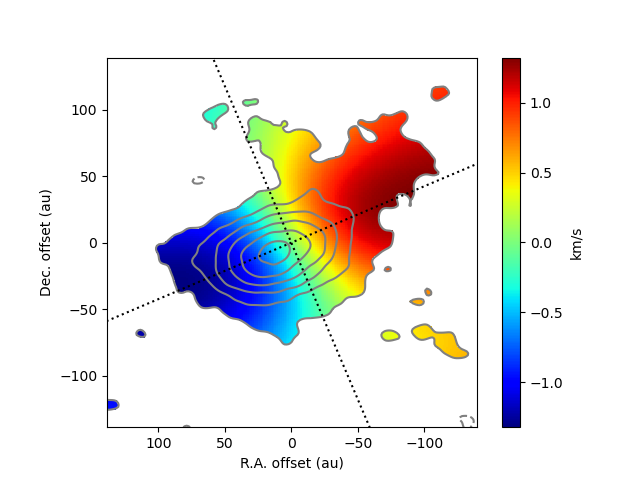
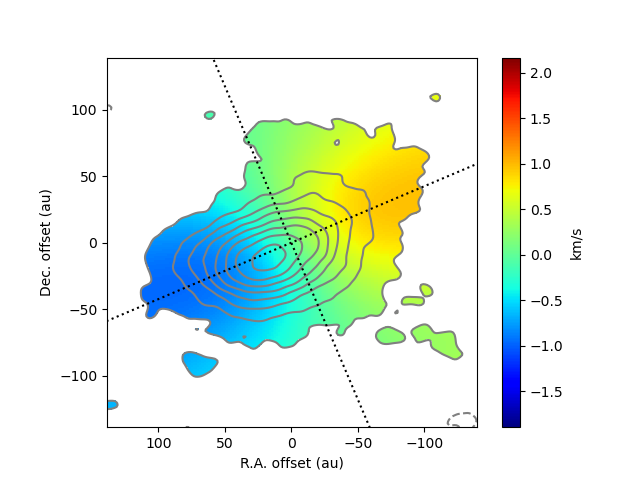
trials

diff --git a/pvsilhouette/pvsilhouette.py b/pvsilhouette/pvsilhouette.py
@@ -46,7 +46,7 @@ from scipy.optimize import curve_fit
 import warnings
 
 from utils import emcee_corner
-from UlrichEnvelope import velmax
+from UlrichEnvelope import velmax, thinpv
 
 warnings.simplefilter('ignore', RuntimeWarning)
 
@@ -262,7 +262,7 @@ class PVSilhouette():
                                   nwalkers_per_ndim=16,
                                   nburnin=200, nsteps=200,
                                   labels=['log Mstar', 'log Rc'],
-                                  rangelevel=0.9,
+                                  rangelevel=0.93,
                                   figname=figname+'.corner.png',
                                   show_corner=True)
         popt = 10**popt
@@ -291,6 +291,67 @@ class PVSilhouette():
             fig.savefig(figname + '.model.png')
             plt.show()
 
+    def fitting2(self, incl: float, Mstar_range: list = [0, 10],
+                 Rc_range: list = [0, 1000], cutoff: float = 5,
+                 vmask: list = [0, 0],
+                 show: bool = False, figname: str = 'PVsilhouette'):
+        
+        majormap = self.dpvmajor
+        minormap = self.dpvminor
+        #majormap = np.where(self.dpvmajor > cutoff * self.sigma, 1, 0)
+        #minormap = np.where(self.dpvminor > cutoff * self.sigma, 1, 0)
+        allpix = len(np.ravel(majormap)) + len(np.ravel(minormap))
+        def lnprob(p):
+            q = 10**p
+            a = thinpv(self.r, self.v, Mstar=q[0], Rc=q[1], incl=incl,
+                       beam=self.bmaj)
+            majormodel, minormodel = a['major'], a['minor']
+            majormodel *= np.median(majormap)
+            minormodel *= np.median(minormap)
+            #majormodel = np.where(majormodel > cutoff * self.sigma, 1, 0)
+            #minormodel = np.where(minormodel > cutoff * self.sigma, 1, 0)
+            chi2 = np.sum((majormap - majormodel)**2) + np.sum((minormap - minormodel)**2)
+            chi2 /= self.sigma**2
+            chi2r = chi2 / allpix
+            print([f'{q[0]:05.3f}', f'{q[1]:07.3f}'], f'{chi2r:05.3f}')
+            return -0.5 * chi2
+        plim = np.log10([Mstar_range, Rc_range]).T
+        popt, perr = emcee_corner(plim, lnprob, args=[],
+                                  nwalkers_per_ndim=8,
+                                  nburnin=100, nsteps=100,
+                                  labels=['log Mstar', 'log Rc'],
+                                  rangelevel=0.93,
+                                  figname=figname+'.corner.png',
+                                  show_corner=True)
+        popt = 10**popt
+        perr = popt * np.log(10) * perr
+        self.popt = popt
+        self.perr = perr
+        print(popt)
+        if show:
+            a = thinpv(self.r, self.v, Mstar=popt[0], Rc=popt[1], incl=incl,
+                       beam=self.bmaj)
+            majormodel, minormodel = a['major'], a['minor']
+            majormodel *= np.mean(majormap)
+            minormodel *= np.mean(minormap)
+            fig = plt.figure()
+            ax = fig.add_subplot(1, 2, 1)
+            ax.contour(self.r, self.v, self.dpvmajor,
+                       levels=np.arange(1, 10) * 6 * sigma, colors='k')
+            ax.contour(self.r, self.v, majormodel,
+                       levels=np.arange(1, 10) * 6 * sigma, colors='r')
+            ax.set_xlabel('offset (au)')
+            ax.set_ylabel('velocity (km/s)')
+            ax.set_ylim(self.v.min(), self.v.max())
+            ax = fig.add_subplot(1, 2, 2)
+            ax.contour(self.r, self.v, self.dpvminor,
+                       levels=np.arange(1, 10) * 6 * sigma, colors='k')
+            ax.contour(self.r, self.v, minormodel,
+                       levels=np.arange(1, 10) * 6 * sigma, colors='r')
+            ax.set_xlabel('offset (au)')
+            ax.set_ylim(self.v.min(), self.v.max())
+            fig.savefig(figname + '.model.png')
+            plt.show()
 
 #####################################################################
 if __name__ == '__main__':
@@ -302,6 +363,6 @@ if __name__ == '__main__':
     pvsil.put_PV(pvmajorfits=pvmajorfits, pvminorfits=pvminorfits,
                  dist=dist, vsys=vsys, rmax=rmax, vmin=vlim[0], vmax=vlim[1],
                  sigma=sigma)
-    pvsil.fitting(incl=incl, Mstar_range=[0.01, 10.0], Rc_range=[5, 500],
+    pvsil.fitting2(incl=incl, Mstar_range=[0.01, 1], Rc_range=[5, 50],
                   cutoff=5, show=True, figname=filehead, vmask=vmask)
     

diff --git a/pvsilhouette/UlrichEnvelope.py b/pvsilhouette/UlrichEnvelope.py
@@ -1,6 +1,8 @@
 import numpy as np
 import matplotlib.pyplot as plt
 from astropy import constants, units
+from scipy.signal import convolve
+
 
 au = units.au.to('m')
 GG = constants.G.si.value
@@ -97,22 +99,69 @@ def losvel(elos, r, t, p, kepler=False):
 def velmax(r: np.ndarray, Mstar: float, Rc: float, incl: float):
     irad = np.radians(incl)
     vunit = np.sqrt(GG * Mstar * M_sun / Rc / au) * 1e-3
-    X = r / Rc
-    Z = r / Rc
-    X, Z = np.meshgrid(X, Z)  # X is inner, second axis
-    Y = np.zeros_like(X)
-    R = np.hypot(X, Z)
-    X[R < 1] = np.nan
-    Y[R < 1] = np.nan
-    Z[R < 1] = np.nan
+    X, Z = np.meshgrid(r / Rc, r / Rc)  # X is inner, second axis
+    zero = np.zeros_like(X)
     elos = [0, -np.sin(irad), np.cos(irad)]
     a = {}
-    vlos = losvel(elos, *xyz2rtp(*XYZ2xyz(irad, 0, X, Y, Z))) * vunit
+    x, y, z = XYZ2xyz(irad, 0, X, zero, Z)
+    r, t, p = xyz2rtp(x, y, z)
+    vlos = losvel(elos, r, t, p)
+    vlos[np.hypot(x, y) < 1] = np.nan  # remove non envelope part
     vlosmax = np.nanmax(vlos, axis=0)
     vlosmin = np.nanmin(vlos, axis=0)
-    a['major'] = {'vlosmax':vlosmax, 'vlosmin':vlosmin}
-    vlos = losvel(elos, *xyz2rtp(*XYZ2xyz(irad, 0, Y, X, Z))) * vunit
+    a['major'] = {'vlosmax':vlosmax * vunit, 'vlosmin':vlosmin * vunit}
+    x, y, z = XYZ2xyz(irad, 0, zero, X, Z)
+    r, t, p = xyz2rtp(x, y, z)
+    vlos = losvel(elos, r, t, p)
+    vlos[np.hypot(x, y) < 1] = np.nan  # remove non envelope part
     vlosmax = np.nanmax(vlos, axis=0)
     vlosmin = np.nanmin(vlos, axis=0)
-    a['minor'] = {'vlosmax':vlosmax, 'vlosmin':vlosmin}
+    a['minor'] = {'vlosmax':vlosmax * vunit, 'vlosmin':vlosmin * vunit}
+    return a
+
+def thinpv(r: np.ndarray, v: np.ndarray,
+           Mstar: float, Rc: float, incl: float,
+           beam: float):
+    irad = np.radians(incl)
+    vunit = np.sqrt(GG * Mstar * M_sun / Rc / au) * 1e-3
+    gauss = np.zeros((len(v) // 2 * 2 + 1, len(r)))
+    gauss[len(v) // 2, :] = np.exp2(-(4 * (r / beam)**2))
+    X, Z = np.meshgrid(r / Rc, r / Rc)  # X is inner, second axis
+    zero = np.zeros_like(X)
+    elos = [0, -np.sin(irad), np.cos(irad)]
+    w = v / vunit
+    dw = (w[1] - w[0]) / 2
+    a = {}
+    x, y, z = XYZ2xyz(irad, 0, X, zero, Z)
+    r, t, p = xyz2rtp(x, y, z)
+    vlos = losvel(elos, r, t, p)
+    #vlos[np.hypot(x, y) < 1] = np.nan  # remove non envelope part
+    _, _, _, rho = velrho(r, t)
+    pv = [None] * len(w)
+    for i in range(len(w)):
+        drhodv = rho * 1
+        drhodv[(vlos < w[i] - dw) + (w[i] + dw < vlos)] = 0
+        drhodv[np.isnan(vlos)] = 0
+        drhodv = convolve(drhodv, gauss, mode='same')
+        pv[i]= np.sum(drhodv, axis=0)
+    pv = np.array(pv)
+    #pv[np.isnan(pv)] = 0
+    pv = pv / np.median(pv)
+    a['major'] = pv
+    x, y, z = XYZ2xyz(irad, 0, zero, X, Z)
+    r, t, p = xyz2rtp(x, y, z)
+    vlos = losvel(elos, r, t, p)
+    vlos[np.hypot(x, y) < 1] = np.nan  # remove non envelope part
+    _, _, _, rho = velrho(r, t)
+    pv = [None] * len(w)
+    for i in range(len(w)):
+        drhodv = rho * 1
+        drhodv[(vlos < w[i] - dw) + (w[i] + dw < vlos)] = 0
+        drhodv[np.isnan(vlos)] = 0
+        drhodv = convolve(drhodv, gauss, mode='same')
+        pv[i]= np.sum(drhodv, axis=0) 
+    pv = np.array(pv)
+    #pv[np.isnan(pv)] = 0
+    pv = pv / np.median(pv)
+    a['minor'] = pv
     return a

diff --git a/channelfit/channelfit.py b/channelfit/channelfit.py
@@ -23,7 +23,8 @@ sigma = 2e-3  # Jy/beam; None means automatic calculation.
 cutoff = 5.0  # sigma
 rmax = 1 * dist  # au
 ymax = rmax  # au
-vlim = (-2.5, -1.2, 1.2, 2.5)  # km/s
+#vlim = (-2.52, -1.4, 1.4, 2.52)  # km/s
+vlim = (-2.52, -0.9, 0.9, 2.52)  # km/s
 xmax_plot = rmax  # au
 ymax_plot = xmax_plot  # au
 vmax_plot = 0  # au
@@ -237,8 +238,8 @@ class ChannelFit():
         fig = plt.figure()
         ax = fig.add_subplot(1, 1, 1)
         m = ax.pcolormesh(self.x, self.y, mom1, cmap='jet',
-                          vmin=np.nanmin(mom1),
-                          vmax=np.nanmax(mom1))
+                          vmin=np.nanmin(self.mom1),
+                          vmax=np.nanmax(self.mom1))
         fig.colorbar(m, ax=ax, label='km/s')
         ax.contour(self.x, self.y, mom0, colors='gray', levels=levels)
         if pa is not None:
@@ -288,7 +289,7 @@ class ChannelFit():
         d = self.cubemodel(Mstar, Rc, cs)[0]
         m = makemom01(d, self.v_valid, self.sigma)
         mom0 = m['mom0']
-        mom1 = m['mom1'] - self.mom1
+        mom1 = self.mom1 - m['mom1']
         sigma_mom0 = m['sigma_mom0']
         levels = np.arange(1, 20) * 3 * sigma_mom0
         levels = levels[::2]
@@ -296,8 +297,8 @@ class ChannelFit():
         fig = plt.figure()
         ax = fig.add_subplot(1, 1, 1)
         m = ax.pcolormesh(self.x, self.y, mom1, cmap='jet',
-                          vmin=np.nanmin(mom1),
-                          vmax=np.nanmax(mom1))
+                          vmin=np.nanmin(self.mom1),
+                          vmax=np.nanmax(self.mom1))
         fig.colorbar(m, ax=ax, label='km/s')
         ax.contour(self.x, self.y, mom0, colors='gray', levels=levels)
         if pa is not None:
@@ -379,12 +380,13 @@ if __name__ == '__main__':
     chan.gridondisk(cubefits=cubefits, center=center, pa=pa, incl=incl,
                  vsys=vsys, dist=dist, sigma=sigma,
                  rmax=rmax, vlim=vlim)
-    chan.fitting(Mstar_range=[0.01, 10.0], Rc_range=[5, 500], cs_range=[0.2, 2],
-                 figname=filehead)
-    chan.modeltofits(filehead=filehead)
-    #chan.plotmodelmom(0.0825, 573.635, 1.0429, pa=113,
-    #                  filename=filehead+'.modelmom01.png')
-    #chan.plotobsmom(pa=113, filename=filehead+'.obsmom01.png')
-    #chan.plotresidualmom(0.0825, 573.635, 1.0429, pa=113,
-    #                     filename=filehead+'.residualmom01.png')
+    #chan.fitting(Mstar_range=[0.01, 10.0], Rc_range=[5, 500], cs_range=[0.2, 2],
+    #             figname=filehead)
+    #chan.modeltofits(filehead=filehead)
+    #chan.popt
+    #p = [0.08329, 283.34, 1.113]
+    p = [0.04834, 345.02, 0.9338]
+    chan.plotmodelmom(*p, pa=113, filename=filehead+'.modelmom01.png')
+    chan.plotobsmom(pa=113, filename=filehead+'.obsmom01.png')
+    chan.plotresidualmom(*p, pa=113, filename=filehead+'.residualmom01.png')
     #chan.modeltofits(0.0825, 573.635, 1.0429, filehead=filehead)
